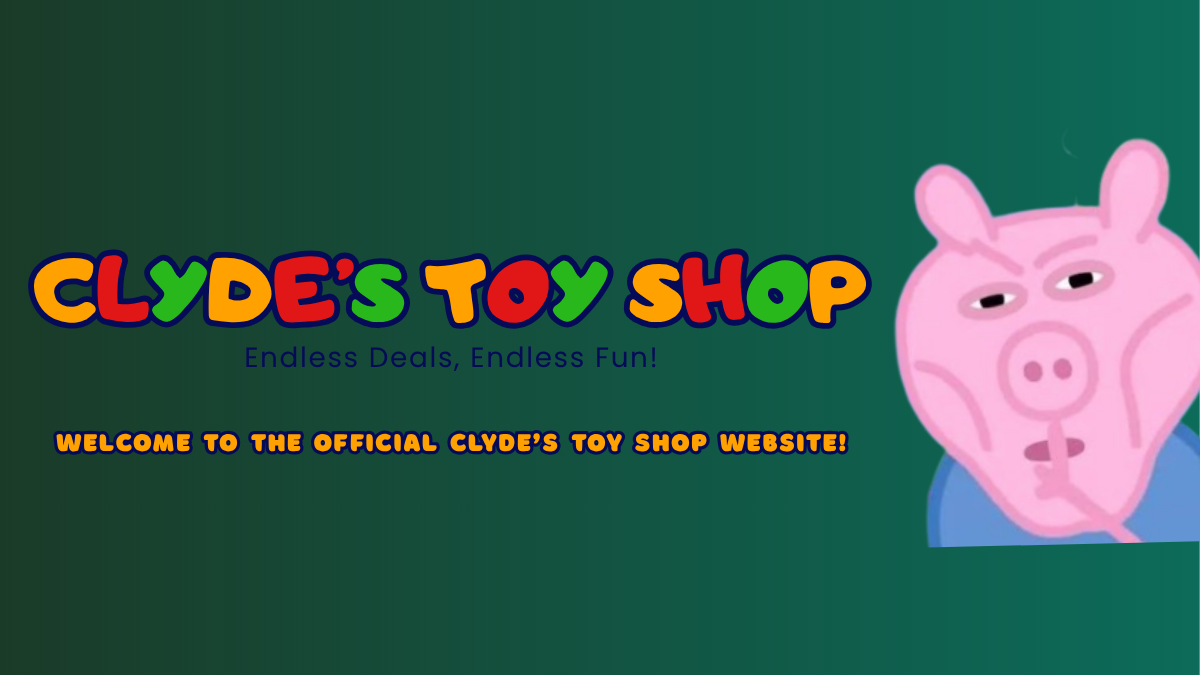
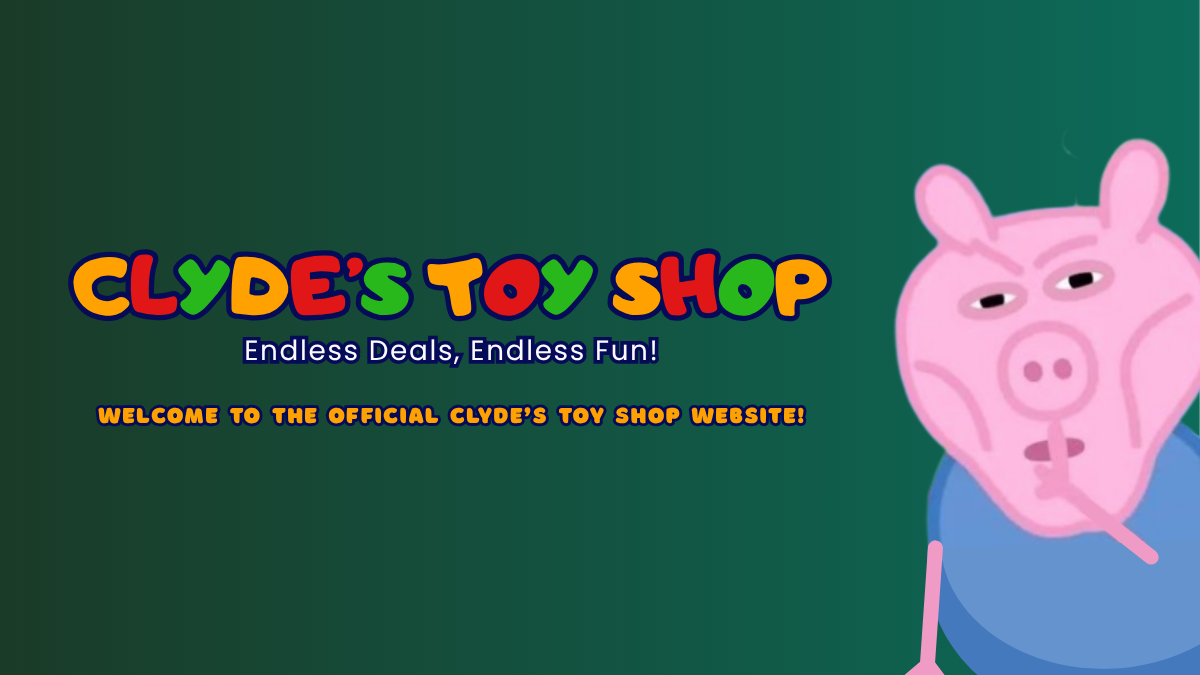
August 29 | Finished V2

Changed region(s): [[0.0, 0.3422, 0.74, 0.56], [0.0308, 0.5911, 0.7092, 0.6844], [0.74, 0.7778, 1.0, 1.0]]

diff --git a/style.css b/style.css
@@ -85,6 +85,8 @@ body {
     gap: 10px;
 }
 
+/* NAVIGATION BAR LOGIN/SIGNUP AND CART BUTTONS */
+
 .nav-btn {
     background: transparent;
     border: transparent;
@@ -106,6 +108,18 @@ body {
     background: #e11717;
 }
 
+button, .nav-btn, .search-icon-btn {
+    transition: background-color 0.2s ease, transform 0.1s ease;
+}
+
+button:hover {
+    transform: scale(1.02);
+}
+
+button:active {
+    transform: scale(0.98);
+}
+
 /* CAROUSEL BANNER */
 .carousel-section {
     position: relative;
@@ -123,6 +137,7 @@ body {
     
     transition: background-image 0.5s ease-out;
 }
+
 .carousel-dots {
     position: relative;
     z-index: 2;
@@ -180,7 +195,7 @@ main {
     font-size: 14px;
 }
 
-/* --- BUTTONS --- */
+/* BUTTONS */
 button {
     padding: 10px 15px;
     border: none;
@@ -225,6 +240,12 @@ button.secondary:hover {
     display: flex;
     flex-direction: column;
     justify-content: space-between;
+    transition: transform 0.2s ease, box-shadow 0.2s ease;
+}
+
+.toy-card:hover {
+    transform: translateY(-4px);
+    box-shadow: 0 6px 12px rgba(0, 0, 0, 0.15);
 }
 
 .toy-card-img {
@@ -278,6 +299,21 @@ button.secondary:hover {
     max-width: 1000px;
     margin: 40px auto;
     padding: 0 20px;
+}
+
+@keyframes fadeIn {
+    from {
+        opacity: 0;
+        transform: translateY(10px);
+    }
+    to {
+        opacity: 1;
+        transform: translateY(0);
+    }
+}
+
+.toy-details-wrapper {
+    animation: fadeIn 0.4s ease-out forwards;
 }
 
 /* MAXIMIZED SCREEN */
@@ -501,7 +537,7 @@ button.secondary:hover {
 
 @media (max-width: 768px) {
     .toy-details-wrapper {
-        grid-template-columns: 1fr; /* Switches to a single responsive column */
+        grid-template-columns: 1fr; 
         gap: 20px;
         padding: 20px;
         margin: 15px;
@@ -532,4 +568,27 @@ body.details-page {
 
 body.details-page .details-container {
     flex: 1;
+}
+
+/* RESPONSIVENESS AREA */
+
+@media (max-width: 1036px) {
+    .navbar {
+        flex-direction: column;
+        align-items: center; 
+        padding: 15px;
+    }
+
+    .nav-left, 
+    .search-bar-container, 
+    .nav-right {
+        width: 100%;
+        display: flex;
+        justify-content: center; 
+        margin-bottom: 10px;    
+    }
+
+    .nav-right {
+        gap: 10px; 
+    }
 }

diff --git a/app.js b/app.js
@@ -263,10 +263,16 @@ async function searchToys() {
 loadToys();
 
 // CAROUSEL IMAGE 
-const slides = [
+const desktopSlides = [
     { image: "images/carousel1.png" },
     { image: "images/carousel2.png" },
     { image: "images/carousel3.png" }
+];
+
+const mobileSlides = [
+    { image: "images/carousel1_responsive.png" }, 
+    { image: "images/carousel2_responsive.png" },
+    { image: "images/carousel3_responsive.png" }
 ];
 
 let currentSlide = 0;
@@ -280,7 +286,14 @@ function updateCarousel() {
     const banner = document.getElementById("carouselBanner");
     const dots = document.querySelectorAll(".dot");
 
-    banner.style.backgroundImage = `url('${slides[currentSlide].image}')`;
+    const activeSlides = window.innerWidth <= 768 ? mobileSlides : desktopSlides;
+
+    // Safety check so index doesn't break if arrays are different lengths
+    if (currentSlide >= activeSlides.length) {
+        currentSlide = 0;
+    }
+
+    banner.style.backgroundImage = `url('${activeSlides[currentSlide].image}')`;
 
     dots.forEach((dot, idx) => {
         if (idx === currentSlide) {
@@ -293,9 +306,15 @@ function updateCarousel() {
 
 // AUTO-SWIPE
 setInterval(() => {
-    currentSlide = (currentSlide + 1) % slides.length;
+    const activeSlides = window.innerWidth <= 768 ? mobileSlides : desktopSlides;
+    currentSlide = (currentSlide + 1) % activeSlides.length;
     updateCarousel();
 }, 5000);
+
+// Re-render if someone resizes their browser window live
+window.addEventListener("resize", () => {
+    updateCarousel();
+});
 
 updateCarousel();
 
